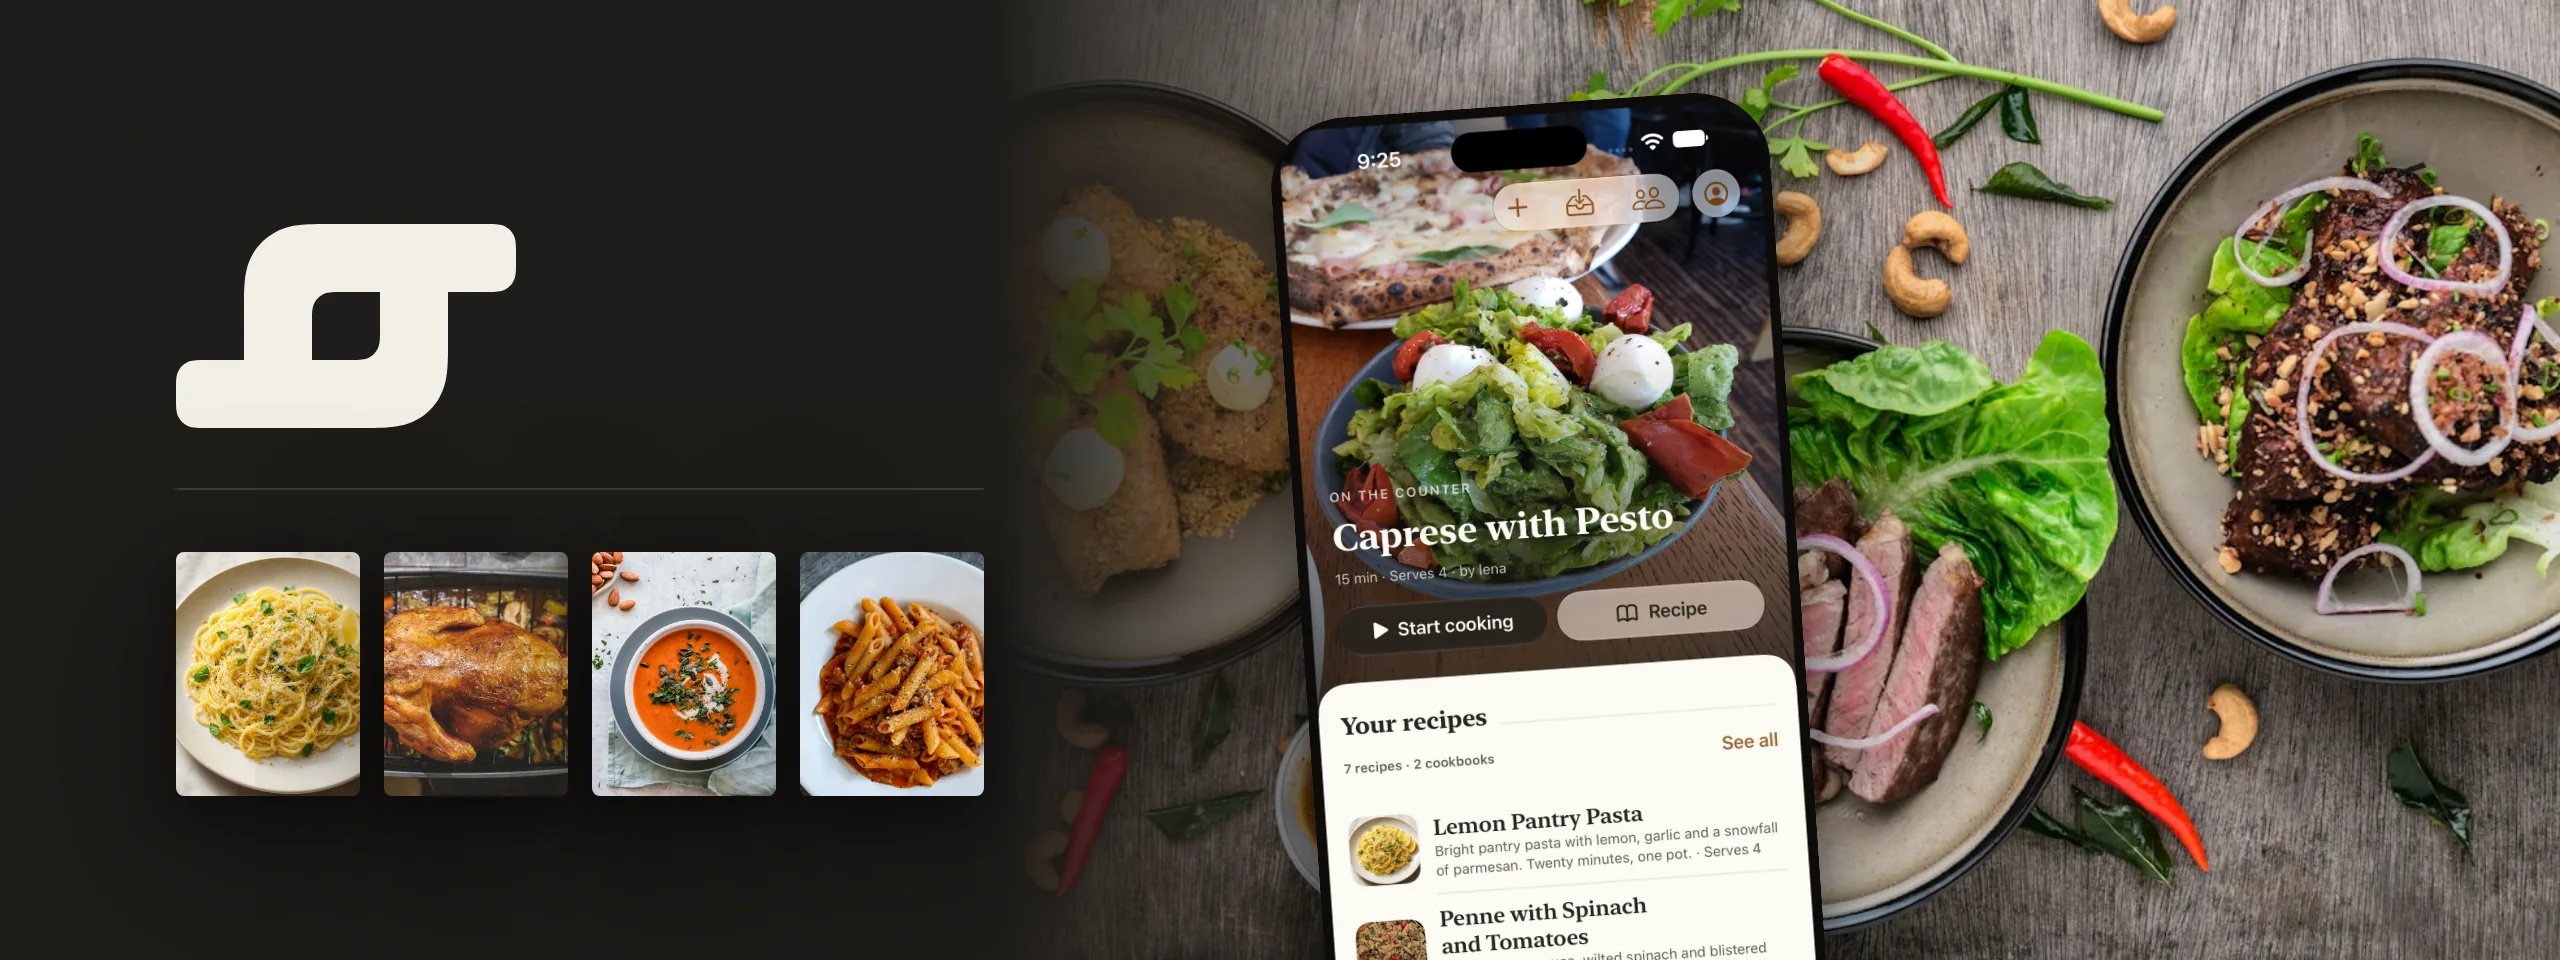
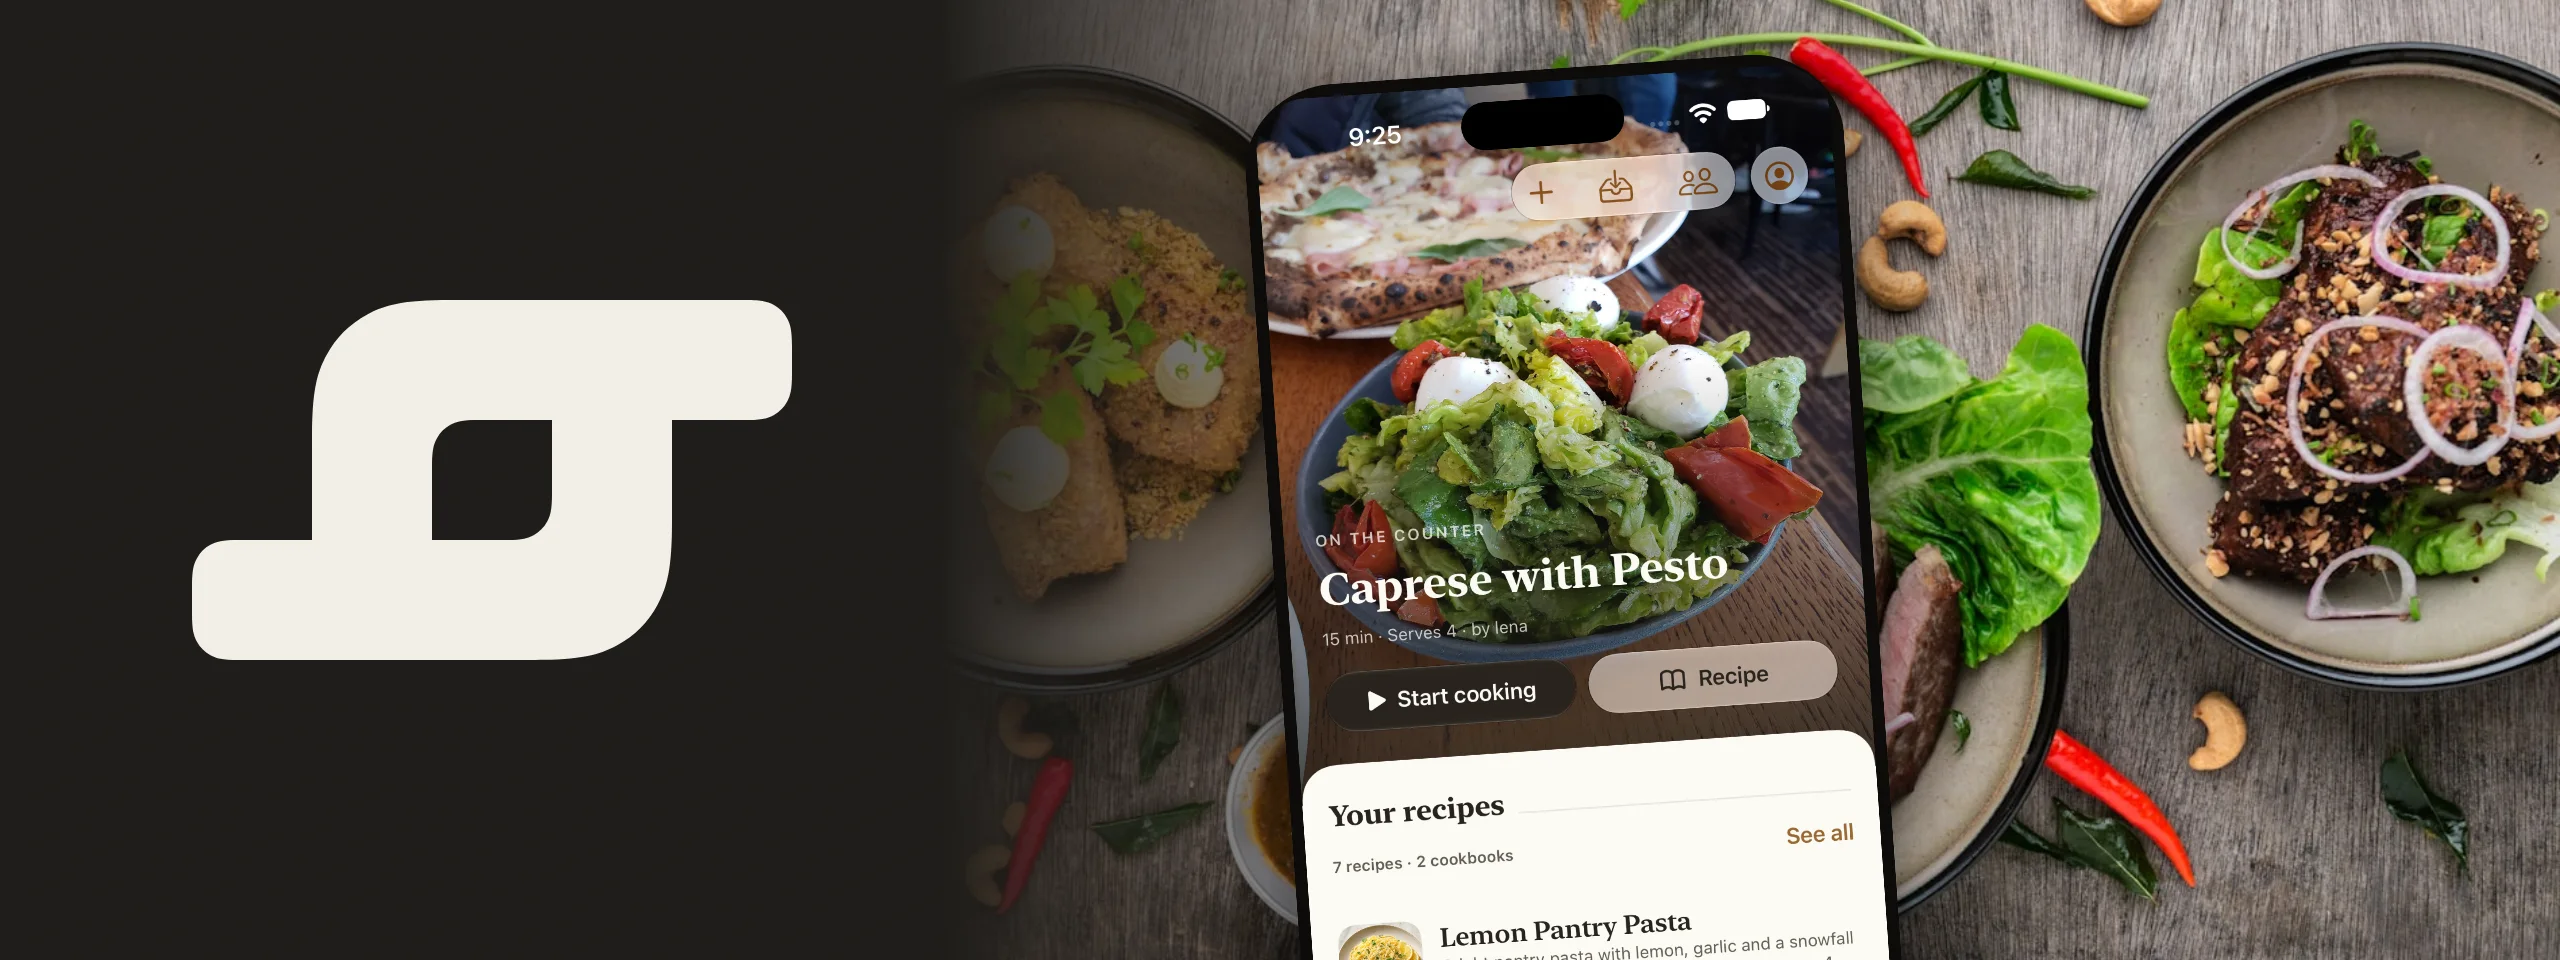
Org profile: a header that reads at phone width, the tagline as the title (#3)

diff --git a/brand/tools/compose.html b/brand/tools/compose.html
@@ -56,17 +56,12 @@ const still = (src) => `
     ${mark(150, 189, 170)}
   `;
 const A = {
-  // Org profile: the kitchen table. Dinner photo on the right, paper on the left with the mark and a shelf of covers, a phone on the seam.
+  // Org profile: the kitchen table. Dinner photo on the right, paper on the left with a large mark, a phone on the seam. Sized to read at phone width.
   org: () => `
-    <div class="photo" style="left:500px"><img src="dinner.jpg" style="object-position:40% 50%"></div>
-    <div class="fade" style="background:linear-gradient(90deg,var(--bone) 0,var(--bone) 500px,color-mix(in srgb,var(--bone) 0%,transparent) 740px)"></div>
-    ${mark(88, 112, 170)}
-    <div class="rule" style="left:88px;top:244px;width:404px"></div>
-    <div class="cover shadow" style="left:88px;top:276px;width:92px;height:122px"><img src="lemon-pasta.png" style="object-position:42% 50%"></div>
-    <div class="cover shadow" style="left:192px;top:276px;width:92px;height:122px"><img src="roast-chicken.jpg"></div>
-    <div class="cover shadow" style="left:296px;top:276px;width:92px;height:122px"><img src="squash-soup.jpg"></div>
-    <div class="cover shadow" style="left:400px;top:276px;width:92px;height:122px"><img src="penne-ragu.jpg"></div>
-    ${phone("phone-03-kitchen.png", 650, 52, 250, -4, 2)}
+    <div class="photo" style="left:470px"><img src="dinner.jpg" style="object-position:40% 50%"></div>
+    <div class="fade" style="background:linear-gradient(90deg,var(--bone) 0,var(--bone) 470px,color-mix(in srgb,var(--bone) 0%,transparent) 720px)"></div>
+    ${mark(96, 150, 300)}
+    ${phone("phone-03-kitchen.png", 640, 34, 300, -4, 2)}
   `,
   // Web app: the site in a browser window, a plate of lemon pasta set beside it.
   web: () => `

diff --git a/profile/README.md b/profile/README.md
@@ -1,13 +1,13 @@
 <p align="center">
   <a href="https://spoonjoy.app"><picture>
     <source media="(prefers-color-scheme: dark)" srcset="https://raw.githubusercontent.com/spoonjoy/.github/main/brand/headers/org-dark.webp">
-    <img src="https://raw.githubusercontent.com/spoonjoy/.github/main/brand/headers/org-light.webp" alt="The Spoonjoy mark above a shelf of four recipe covers, then a dinner table spread with an iPhone showing the Spoonjoy kitchen" width="100%">
+    <img src="https://raw.githubusercontent.com/spoonjoy/.github/main/brand/headers/org-light.webp" alt="The Spoonjoy mark beside an iPhone showing the Spoonjoy kitchen, set on a dinner table" width="100%">
   </picture></a>
 </p>
 
-# Spoonjoy
+# The recipe app for the meals you actually cook
 
-**The recipe app for the meals you actually cook.** Recipes you can cook from one step at a time, cookbooks that grow out of real meals, and one shopping list sorted by aisle.
+Recipes you can cook from one step at a time, cookbooks that grow out of real meals, and one shopping list sorted by aisle.
 
 [**Cook a recipe now, no account needed →**](https://spoonjoy.app/test-kitchen) &nbsp;·&nbsp; [spoonjoy.app](https://spoonjoy.app) &nbsp;·&nbsp; [Support](https://spoonjoy.app/support)
 
